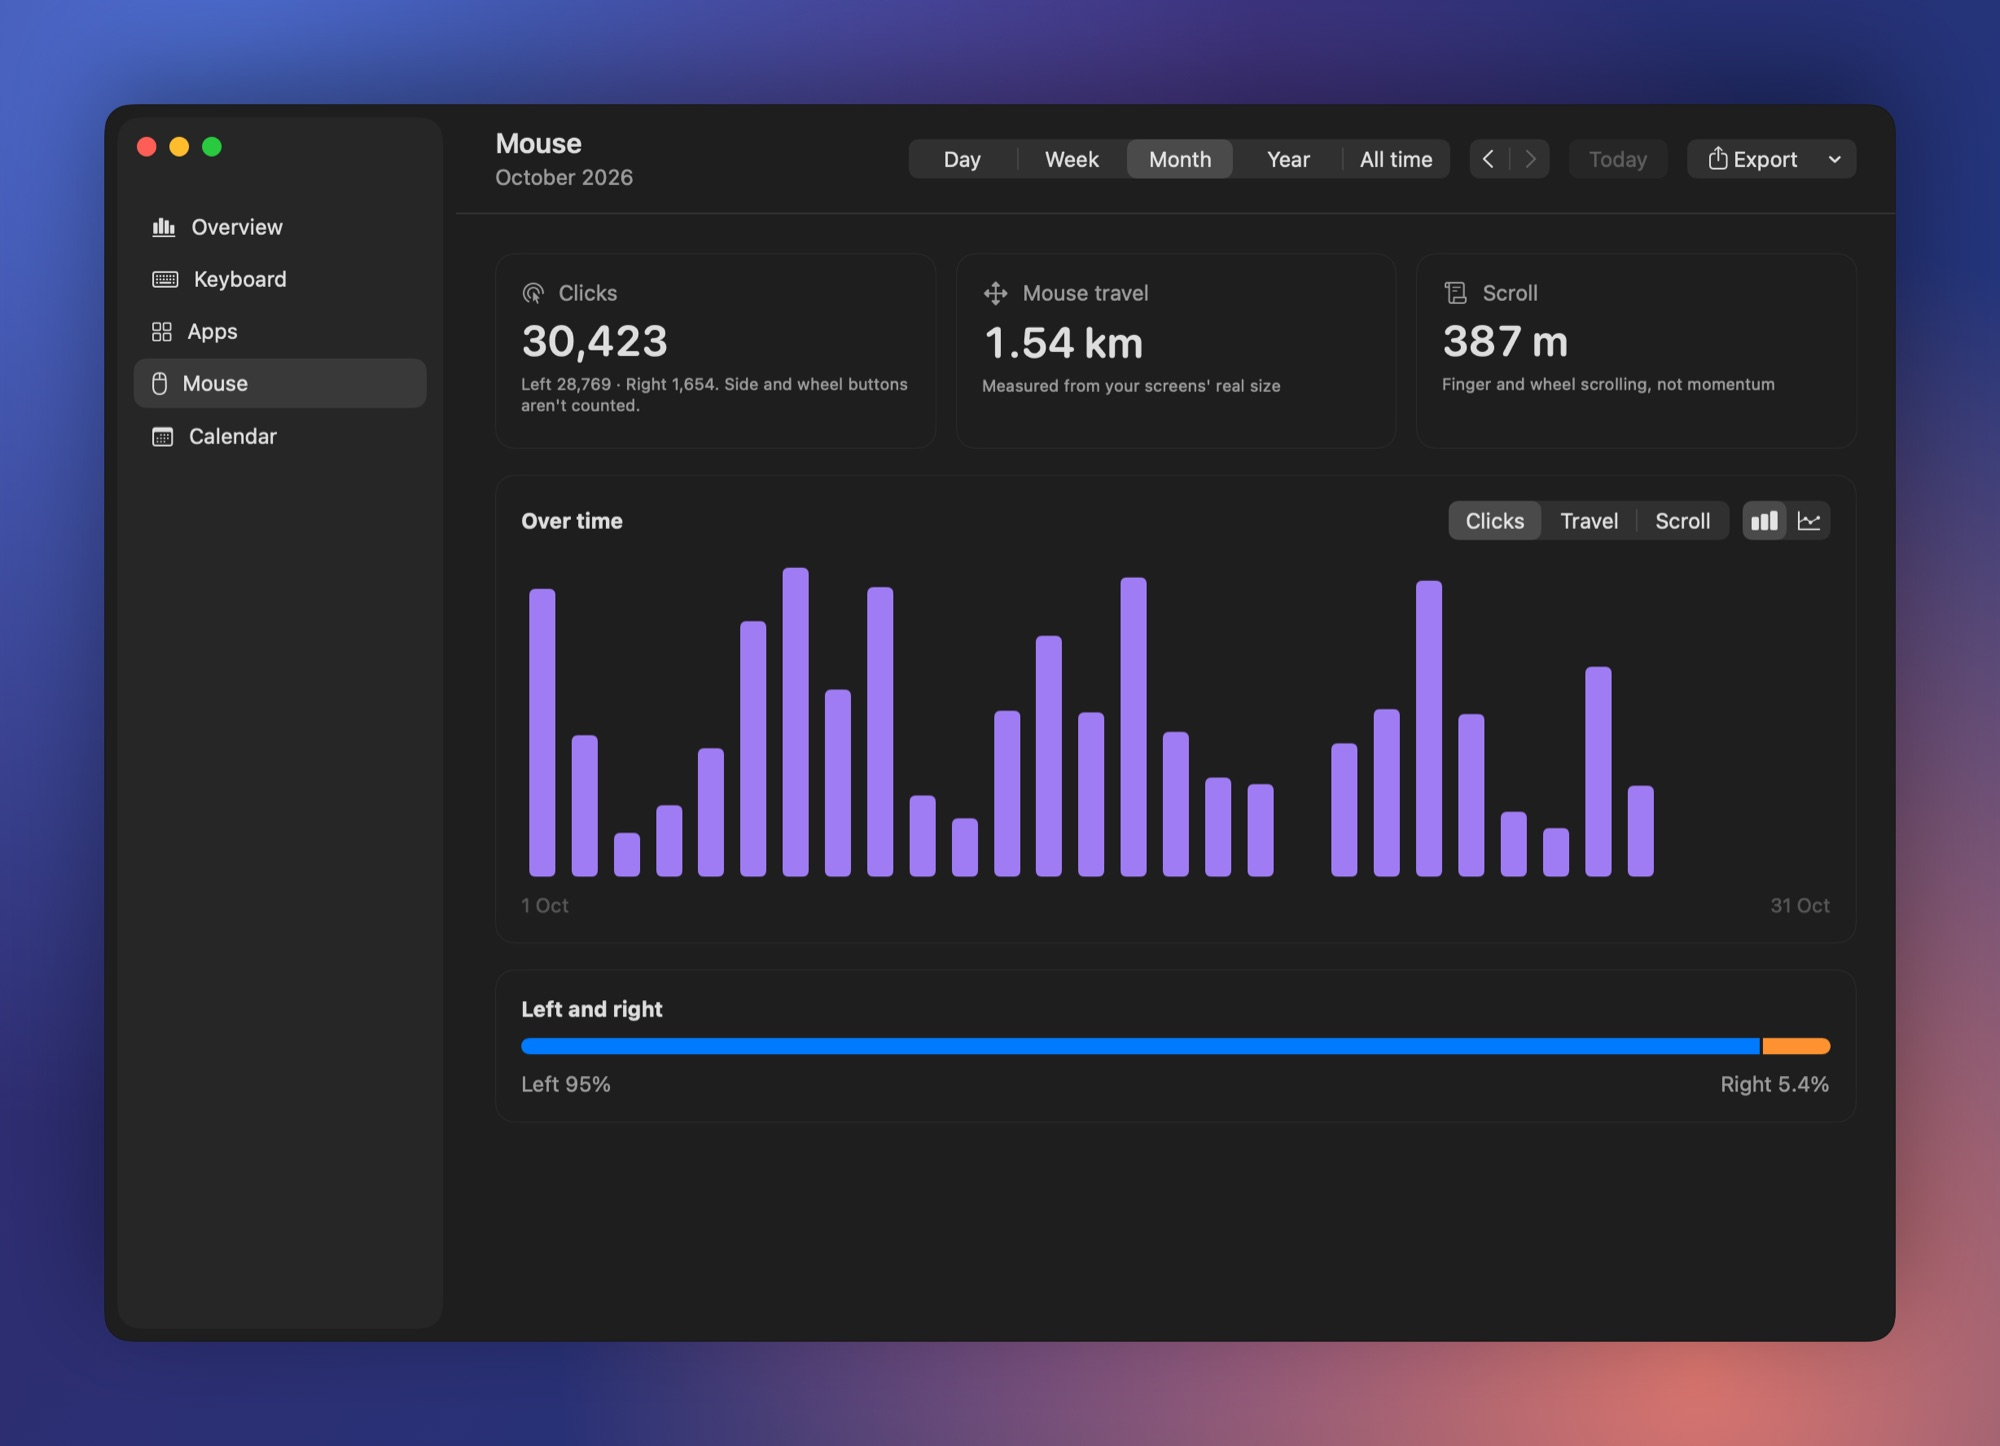
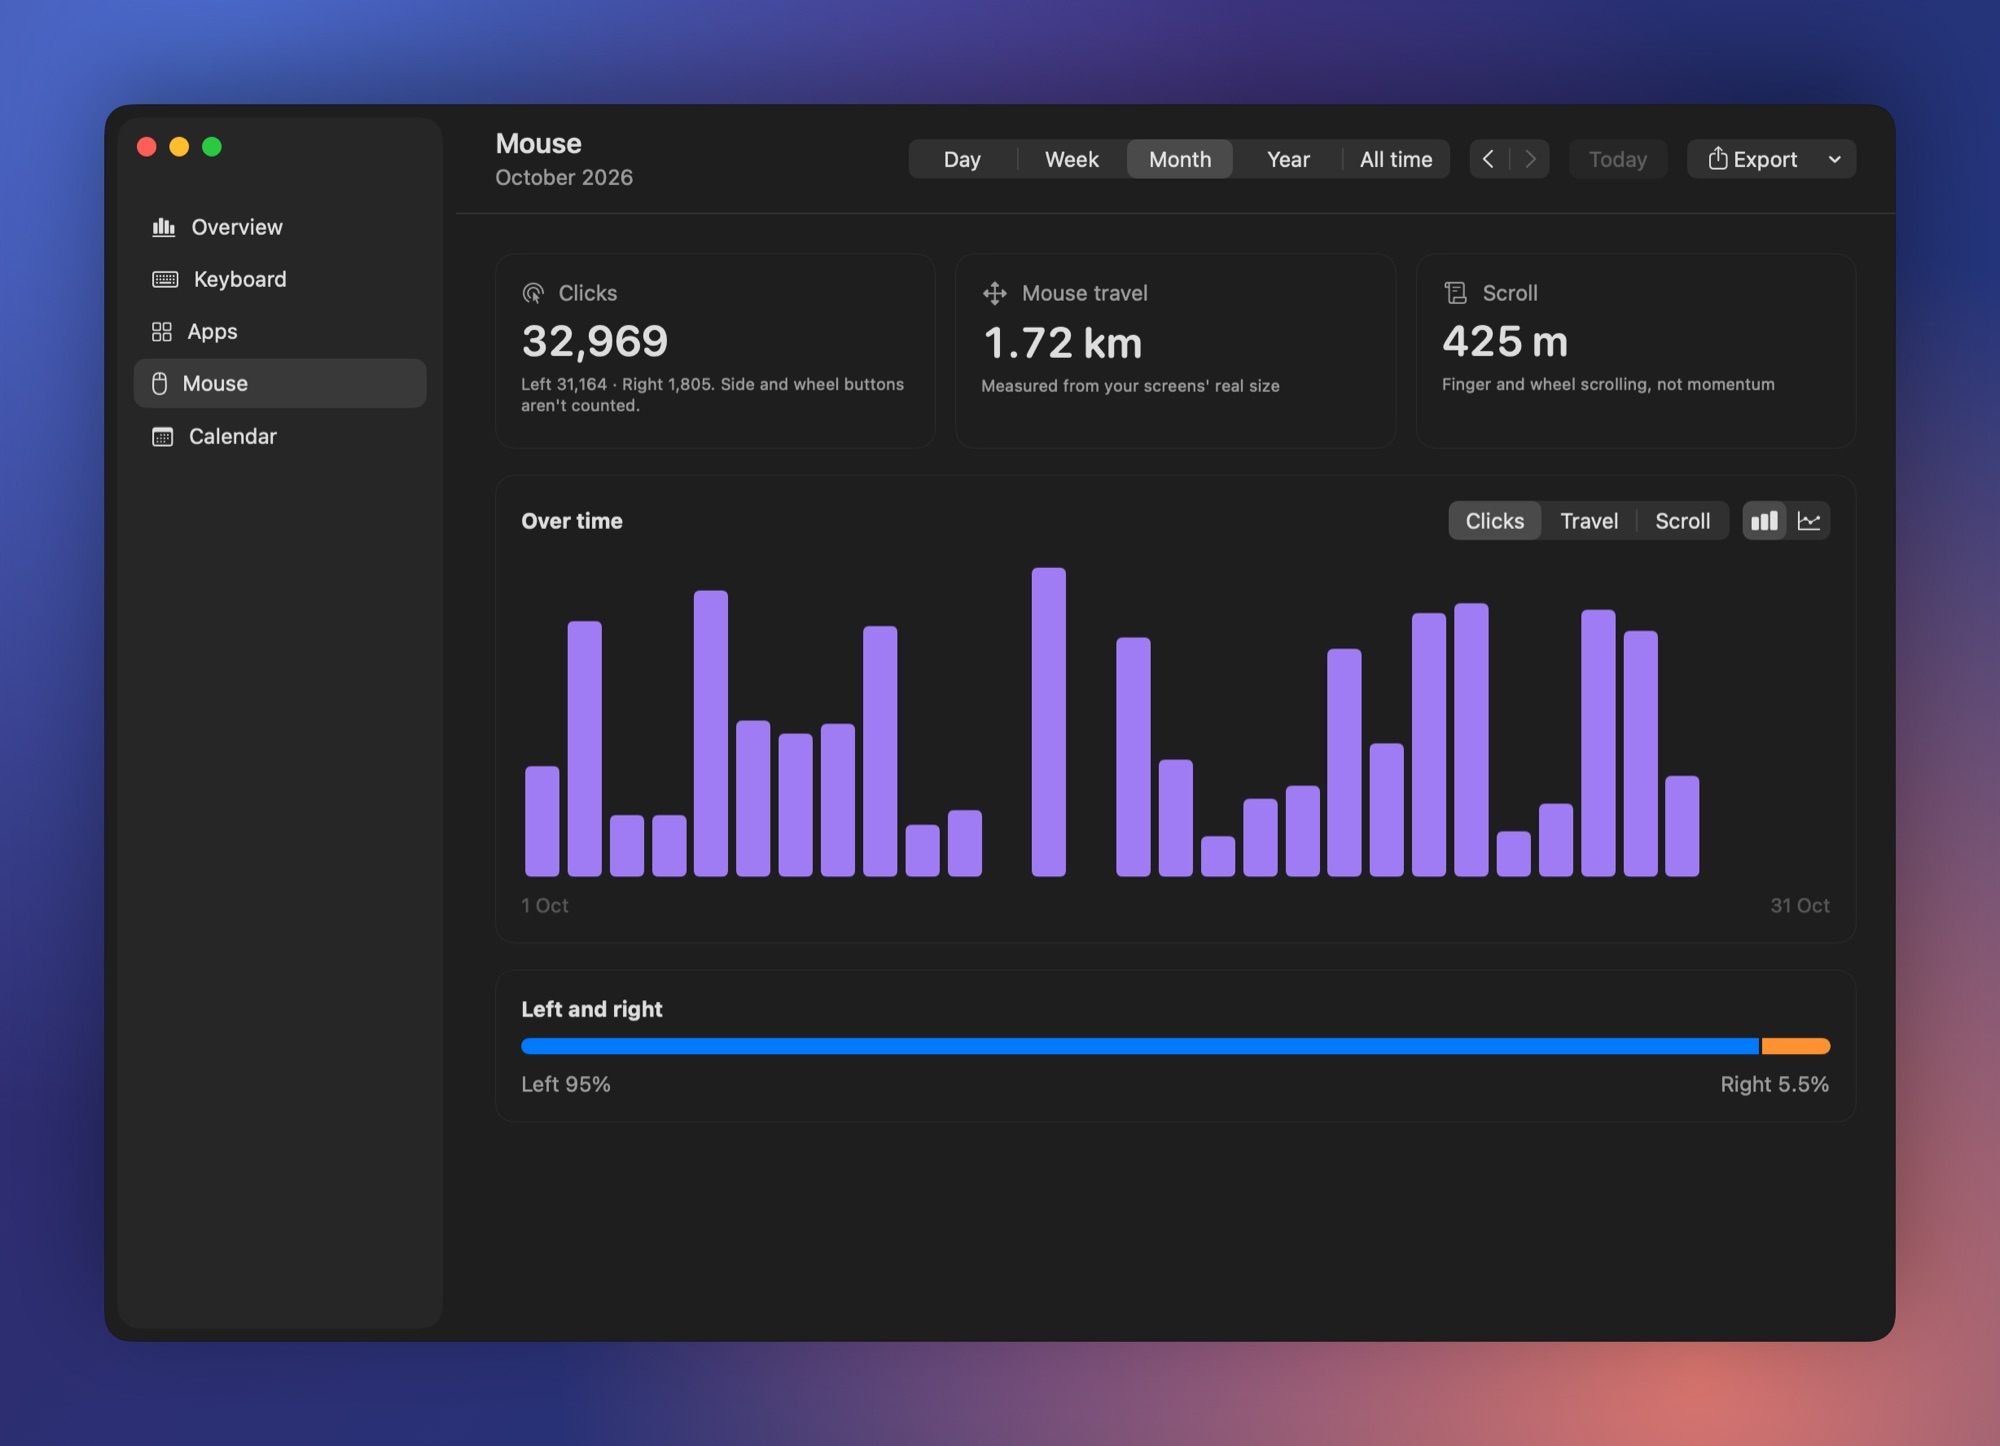
Bars fill their slot with an even gap between them, in the dashboard and the panel, with rounder corners on wide bars; version 1.1.1 and fresh README screenshots

diff --git a/Sources/Keylog/BarChart.swift b/Sources/Keylog/BarChart.swift
@@ -17,7 +17,8 @@ struct BarColumn: Identifiable {
     var total: Double { segments.reduce(0) { $0 + $1.value } }
 }
 
-/// Stacked bars drawn as separate rounded segments with gaps between them, no y-axis.
+/// Stacked bars drawn as separate rounded segments with gaps between them, no y-axis. Each bar
+/// fills its slot except for a gap of about a fifth of it.
 /// Hovering dims the other bars, outlines the bar and shows `tooltip` beside it.
 struct BarChart<Tooltip: View>: View {
     let columns: [BarColumn]
@@ -25,7 +26,6 @@ struct BarChart<Tooltip: View>: View {
     /// First and last slot names, printed under the ends of the chart.
     var edgeLabels: (String, String)?
     var gap: CGFloat = 2
-    var maxBarWidth: CGFloat = 20
     var labelFont: Font = .callout
     var helpTags = false
     var onSelect: ((Int) -> Void)?
@@ -41,7 +41,7 @@ struct BarChart<Tooltip: View>: View {
         VStack(spacing: 10) {
             GeometryReader { geometry in
                 let pitch = geometry.size.width / CGFloat(max(1, columns.count))
-                let width = min(maxBarWidth, max(2, (pitch * 0.6).rounded()))
+                let width = max(2, (pitch - Self.spacing(pitch)).rounded())
                 let peak = columns.map(\.total).max() ?? 0
                 let pieces = columns.map { $0.segments.filter { $0.value > 0 }.count }.max() ?? 1
                 let usable = max(0, geometry.size.height - headroom - gap * CGFloat(max(0, pieces - 1)))
@@ -100,8 +100,12 @@ struct BarChart<Tooltip: View>: View {
         }
     }
 
+    /// The gap between bars: about a fifth of each slot, from 2 to 24 points.
+    static func spacing(_ pitch: CGFloat) -> CGFloat { min(24, max(2, pitch * 0.2)) }
+
     private func bar(_ column: BarColumn, width: CGFloat, scale: CGFloat) -> some View {
-        let radius = min(3.5, width / 2)
+        // Wider bars round a little more, up to 8 points.
+        let radius = min(width / 2, max(3.5, min(8, width * 0.12)))
         let isHovered = hovered == column.id
         let pieces = column.segments.filter { $0.value > 0 }
         return VStack(spacing: gap) {
@@ -125,7 +129,8 @@ struct BarChart<Tooltip: View>: View {
             if isHovered {
                 RoundedRectangle(cornerRadius: radius + 3, style: .continuous)
                     .strokeBorder(Color.primary.opacity(0.5), lineWidth: 1.5)
-                    .padding(-4)
+                    // Inside the gap, however narrow the bars are.
+                    .padding(-min(4, max(1, (width * 0.25).rounded())))
                     .transition(.opacity)
             }
         }
@@ -182,9 +187,9 @@ struct BarTooltip: View {
 
 extension BarChart where Tooltip == EmptyView {
     init(columns: [BarColumn], hovered: Binding<Int?>, edgeLabels: (String, String)? = nil,
-         gap: CGFloat = 2, maxBarWidth: CGFloat = 20, labelFont: Font = .callout, helpTags: Bool = false,
+         gap: CGFloat = 2, labelFont: Font = .callout, helpTags: Bool = false,
          onSelect: ((Int) -> Void)? = nil) {
-        self.init(columns: columns, hovered: hovered, edgeLabels: edgeLabels, gap: gap, maxBarWidth: maxBarWidth,
+        self.init(columns: columns, hovered: hovered, edgeLabels: edgeLabels, gap: gap,
                   labelFont: labelFont, helpTags: helpTags, onSelect: onSelect) { _ in EmptyView() }
     }
 }

diff --git a/Sources/Keylog/PopoverView.swift b/Sources/Keylog/PopoverView.swift
@@ -309,7 +309,7 @@ struct PopoverView: View {
                               placeholder: !point.hasData)
                 }, hovered: $hoveredDay,
                          edgeLabels: points.first.flatMap { first in points.last.map { (Self.edge(first.day), Self.edge($0.day)) } },
-                         maxBarWidth: 14, labelFont: .caption)
+                         labelFont: .caption)
                 .frame(height: 92)
             }
             Text(hoveredDay.flatMap { points.indices.contains($0) ? points[$0] : nil }.map { point in
@@ -432,7 +432,7 @@ struct HourlyBars: View {
                                            color: hour == currentHour ? Theme.bar : Theme.bar.opacity(0.5))],
                           label: "\(hourName(hour)): \(Format.count(values[hour])) keys",
                           placeholder: hour > currentHour || values[hour] == 0)
-            }, hovered: $hovered, gap: 1, maxBarWidth: 8, helpTags: true)
+            }, hovered: $hovered, gap: 1, helpTags: true)
             .frame(height: 26)
             HStack {
                 Text("12 AM")
